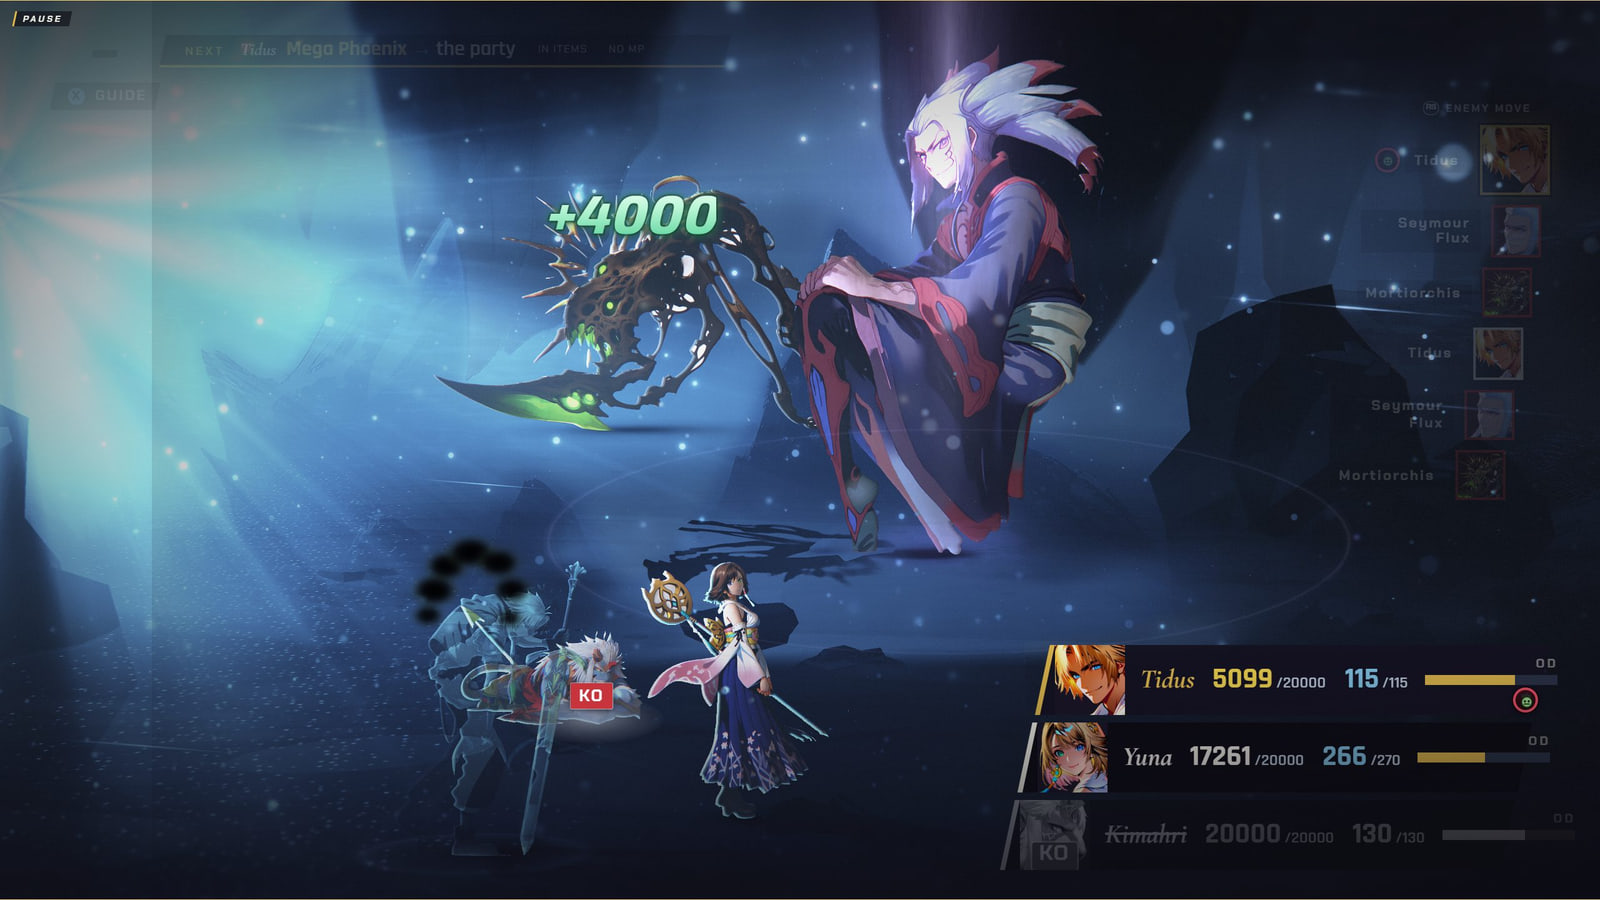
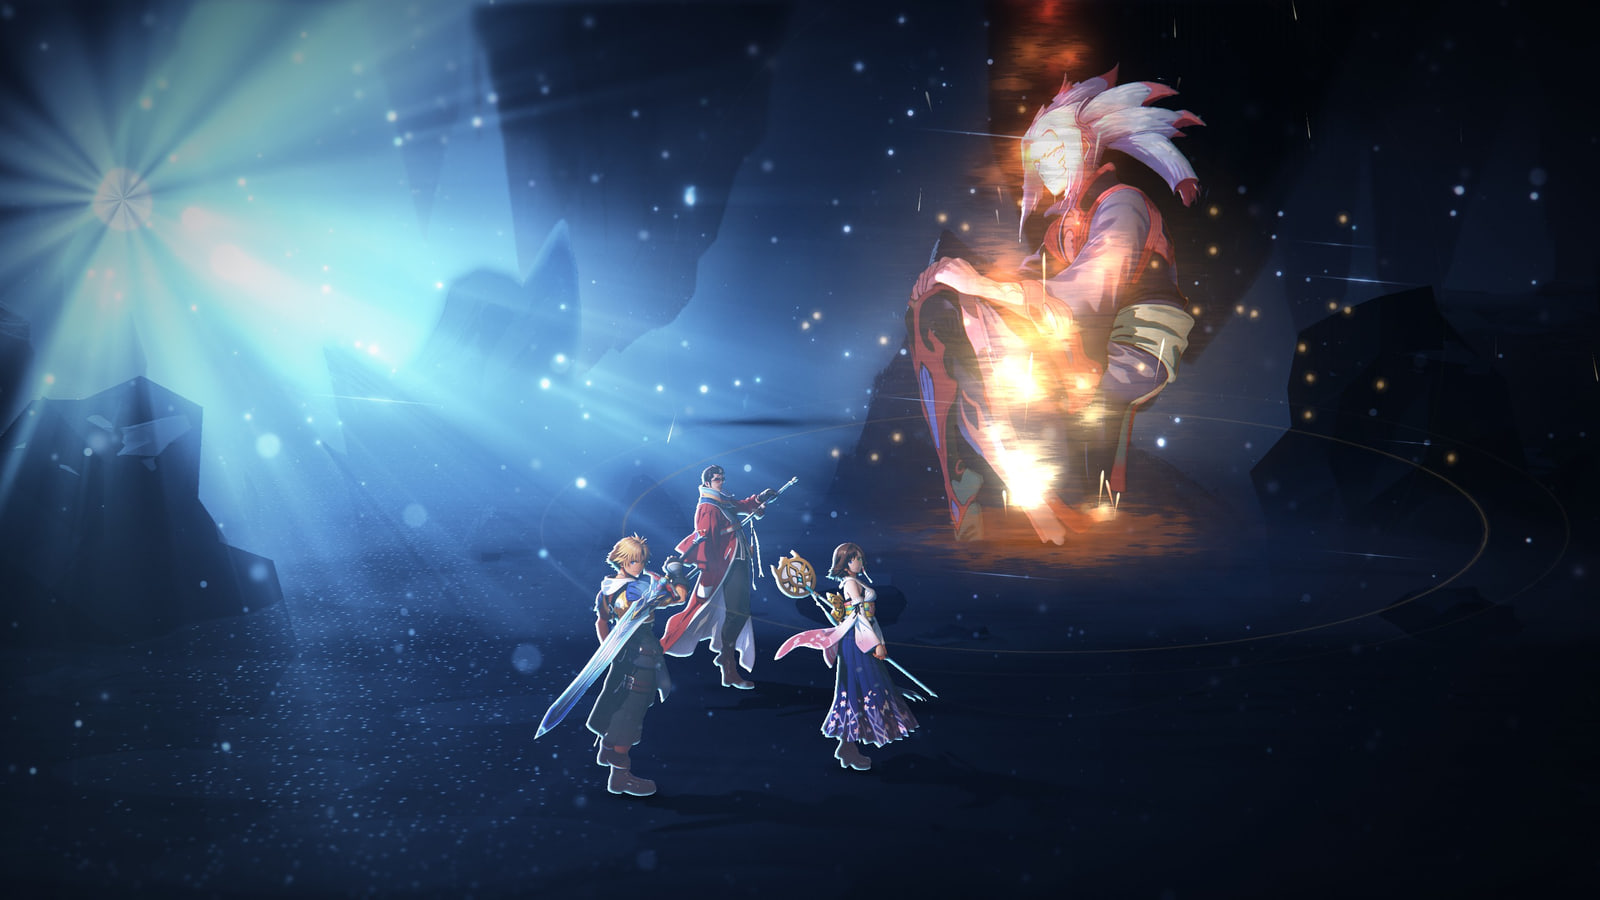
Booth screens, review round 1: the press wall's frames retaken clean (the game's own stats, the interface hidden; tools/press-capture.mjs), the press page one column under 1000 px, a pad press wakes the attract card on the frame it happens, the end card shows the whole painting at 4:3 to 3:2, portra

diff --git a/public/press/index.html b/public/press/index.html
@@ -121,16 +121,25 @@ main { padding-bottom: 4.5rem; }
 @keyframes rise { from { opacity: 0; transform: translateY(0.8rem); } to { opacity: 1; transform: none; } }
 @media (prefers-reduced-motion: reduce) { .fr { animation: none; } .links a { transition: none; } }
 
-/* ---- a phone, or any narrow window: one column, the links first, then the frames */
-@media (max-width: 760px) {
+/* ---- a tablet, a phone, or any window under 1000 px: one column, the links first, then the frames. The two-column dossier needs about 1000 px: its left column is a fixed 35.7rem, so a narrower window would leave the frame wall a sliver (it was 96 px at 768, 148 px at 820). */
+@media (max-width: 1000px) {
   html { font-size: 16px; }
-  .nav { height: 3.4rem; padding: 0 1rem; }
-  .nav .lab { display: none; }
-  .grid { display: block; padding: 1.6rem 1rem 0; }
+  .nav { height: 3.4rem; padding: 0 1.5rem; }
+  .grid { display: block; padding: 1.6rem 1.5rem 0; }
   .title { font-size: 3.5rem; }
   .tagline { font-size: 1.6rem; }
   .links a { padding: 0.9rem 1rem; }
-  .wall { margin-top: 1.6rem; grid-template-columns: 1fr; }
+  .wall { margin-top: 1.6rem; }
+  .sec { padding: 3rem 1.5rem 0; }
+  .shots { grid-template-columns: repeat(2, 1fr); }
+  dl.sheet { grid-template-columns: 11rem 1fr; }
+}
+/* ---- a phone: the frames and the facts in one column too */
+@media (max-width: 600px) {
+  .nav { padding: 0 1rem; }
+  .nav .lab { display: none; }
+  .grid { padding: 1.6rem 1rem 0; }
+  .wall { grid-template-columns: 1fr; }
   .facts { grid-template-columns: 1fr; }
   .sec { padding: 3rem 1rem 0; }
   .shots { grid-template-columns: 1fr; }
@@ -166,8 +175,8 @@ main { padding-bottom: 4.5rem; }
     </section>
 
     <section class="wall" aria-label="Frames from the game">
-      <figure class="fr big"><img src="frames/ffx-seymour-hit.jpg" width="1600" height="900" alt="Final Fantasy X: a hit lands on Seymour Flux on Mt. Gagazet, Tidus and Yuna below, the enemy move list at the side" fetchpriority="high"><figcaption>Final Fantasy X &middot; Seymour Flux</figcaption></figure>
-      <figure class="fr x2"><img src="frames/ffx2-bahamut.jpg" width="1600" height="900" alt="Final Fantasy X-2: Paine strikes Bahamut in Bevelle while Yuna casts Cure"><figcaption>X-2 &middot; Bahamut</figcaption></figure>
+      <figure class="fr big"><img src="frames/ffx-seymour-hit.jpg" width="1600" height="900" alt="Final Fantasy X: a lance strike lands on Seymour Flux in a flash of light, Yuna standing by" fetchpriority="high"><figcaption>Final Fantasy X &middot; Seymour Flux</figcaption></figure>
+      <figure class="fr x2"><img src="frames/ffx2-bahamut.jpg" width="1600" height="900" alt="Final Fantasy X-2: a bright slash crosses Bahamut while the three Gullwings hold their line"><figcaption>X-2 &middot; Bahamut</figcaption></figure>
       <figure class="fr art"><img src="frames/keyart-farplane.jpg" width="1344" height="768" alt="Key art: the Gullwings stand in a field of flowers at Farplane Field, the crystal spire far off"><figcaption>Key art &middot; Farplane</figcaption></figure>
       <div class="facts">
         <div><b>Plays in</b>a browser, free; keyboard or gamepad</div>
@@ -180,16 +189,16 @@ main { padding-bottom: 4.5rem; }
   <section class="sec" id="screens" aria-labelledby="h-screens">
     <h2 id="h-screens">Screenshots and key art</h2>
     <div class="shots">
-      <a href="frames/ffx-seymour-flux.jpg"><img src="frames/ffx-seymour-flux.jpg" width="1600" height="900" loading="lazy" alt="Final Fantasy X: Seymour Flux on Mt. Gagazet, a number rising by the party"><span>X &middot; Seymour Flux</span></a>
-      <a href="frames/ffx-cast.jpg"><img src="frames/ffx-cast.jpg" width="1600" height="900" loading="lazy" alt="Final Fantasy X: Tidus and Yuna in a burst of light"><span>X &middot; Tidus and Yuna</span></a>
-      <a href="frames/ffx-seymour-hit.jpg"><img src="frames/ffx-seymour-hit.jpg" width="1600" height="900" loading="lazy" alt="Final Fantasy X: a hit on Seymour Flux, the enemy move list at the side"><span>X &middot; A hit lands</span></a>
+      <a href="frames/ffx-seymour-flux.jpg"><img src="frames/ffx-seymour-flux.jpg" width="1600" height="900" loading="lazy" alt="Final Fantasy X: flames rise around Seymour Flux while the party watches"><span>X &middot; Flames on Seymour</span></a>
+      <a href="frames/ffx-cast.jpg"><img src="frames/ffx-cast.jpg" width="1600" height="900" loading="lazy" alt="Final Fantasy X: Tidus and Yuna stand in a burst of light"><span>X &middot; The party</span></a>
+      <a href="frames/ffx-seymour-hit.jpg"><img src="frames/ffx-seymour-hit.jpg" width="1600" height="900" loading="lazy" alt="Final Fantasy X: a lance strike on Seymour Flux"><span>X &middot; A hit lands</span></a>
       <a class="art" href="frames/keyart-echo.jpg"><img src="frames/keyart-echo.jpg" width="1600" height="887" loading="lazy" alt="Key art: Yuna kneeling in still water at night, the crystal city far off"><span>Key art &middot; The Echo</span></a>
-      <a class="x2" href="frames/ffx2-bahamut.jpg"><img src="frames/ffx2-bahamut.jpg" width="1600" height="900" loading="lazy" alt="Final Fantasy X-2: Bahamut in the Bevelle arena, the command menu on the right"><span>X-2 &middot; Bahamut</span></a>
-      <a class="x2" href="frames/ffx2-cure.jpg"><img src="frames/ffx2-cure.jpg" width="1600" height="900" loading="lazy" alt="Final Fantasy X-2: Yuna's Cure lights the party"><span>X-2 &middot; Cure</span></a>
-      <a class="x2" href="frames/ffx2-mega-flare.jpg"><img src="frames/ffx2-mega-flare.jpg" width="1600" height="900" loading="lazy" alt="Final Fantasy X-2: Bahamut gathers Mega Flare"><span>X-2 &middot; Mega Flare</span></a>
+      <a class="x2" href="frames/ffx2-bahamut.jpg"><img src="frames/ffx2-bahamut.jpg" width="1600" height="900" loading="lazy" alt="Final Fantasy X-2: a bright slash across Bahamut in the Bevelle arena"><span>X-2 &middot; Bahamut</span></a>
+      <a class="x2" href="frames/ffx2-cure.jpg"><img src="frames/ffx2-cure.jpg" width="1600" height="900" loading="lazy" alt="Final Fantasy X-2: Cure lights the party, Bahamut waiting beyond"><span>X-2 &middot; Cure</span></a>
+      <a class="x2" href="frames/ffx2-darkness.jpg"><img src="frames/ffx2-darkness.jpg" width="1600" height="900" loading="lazy" alt="Final Fantasy X-2: a dark crescent cuts across Bahamut, the Gullwings below"><span>X-2 &middot; Darkness</span></a>
       <a class="art" href="frames/keyart-farplane.jpg"><img src="frames/keyart-farplane.jpg" width="1344" height="768" loading="lazy" alt="Key art: the Gullwings at Farplane Field"><span>Key art &middot; Farplane</span></a>
     </div>
-    <p class="note">Every picture is a capture of the game itself, or its own painted key art. They are web size; the game draws them larger. The frames show a build made for a live demo and may differ in small ways from the one online.</p>
+    <p class="note">Every picture is a capture of the game itself with the interface hidden, or its own painted key art. They are web size; the game draws them larger. The frames show a build made for a live demo and may differ in small ways from the one online.</p>
   </section>
 
   <section class="sec" id="facts" aria-labelledby="h-facts">

diff --git a/tests/unit/booth-press-page.test.ts b/tests/unit/booth-press-page.test.ts
@@ -87,6 +87,23 @@ describe('the press page: the frames', () => {
     expect(manifest.filter((m) => m.game === 'ffx2').length).toBeGreaterThanOrEqual(2);
   });
 
+  it('are clean captures of the game as it plays: no interface, no scripted run, no test numbers (review finding M1)', () => {
+    // the picked mockup's wall is "three clean frames" (no interface); the first build used HUD-on frames from scripted runs with the party's HP raised (Yuna 30000 / 30000, rows colliding)
+    const config = JSON.parse(readFileSync(resolve('tools/press-frames.json'), 'utf8')) as Array<{ name: string; src?: string; art?: string; clean?: string; game: string | null; note: string }>;
+    const games = config.filter((c) => c.game !== null);
+    expect(games.length).toBeGreaterThanOrEqual(6);
+    for (const c of games) {
+      expect(c.note, c.name).toMatch(/press-capture/); // made by tools/press-capture.mjs: the interface layer hidden, the game's own stats
+      expect(c.note, c.name).toMatch(/no interface/);
+      expect(c.src ?? '', c.name).not.toMatch(/ch[14]-script|ch[14]-glass|evidence/); // not a camera-lane scripted run, not an evidence frame with the HUD on
+      expect(c.clean, c.name).toBeUndefined(); // no playtest switchboard label to take out: the captures are made without ?switchboard=1
+    }
+    const capture = readFileSync(resolve('tools/press-capture.mjs'), 'utf8');
+    expect(capture).toContain('#ui { visibility: hidden !important; }');
+    expect(capture).toContain("arg('query', 'demo=1&pack=demo')"); // no ?switchboard=1: no key-list label in the corner of every picture
+    expect(capture).not.toMatch(/maxHp|battleState|.hps*=/); // the tool plays the fight by the game's own strategy and never edits a stat
+  });
+
   it('give every picture a description and a size', () => {
     for (const img of markup.match(/<img [^>]*>/g) ?? []) {
       expect(img).toMatch(/alt="[^"]{12,}"/);
@@ -150,8 +167,21 @@ describe('the press page: the type, the motion and the phone', () => {
     expect(style).toMatch(/@media \(prefers-reduced-motion: reduce\)[^}]*animation: none/);
   });
 
-  it('is one column at phone width, and its text is 16 px there', () => {
-    expect(style).toMatch(/@media \(max-width: 760px\)[\s\S]*?html \{ font-size: 16px; \}/);
-    expect(style).toMatch(/@media \(max-width: 760px\)[\s\S]*?\.grid \{ display: block;/);
+  it('is one column under 1000 px (a tablet, a phone), and its text is 16 px there', () => {
+    expect(style).toMatch(/@media \(max-width: 1000px\)[\s\S]*?html \{ font-size: 16px; \}/);
+    expect(style).toMatch(/@media \(max-width: 1000px\)[\s\S]*?\.grid \{ display: block;/);
+  });
+
+  it('never leaves the two-column dossier narrower than its left column needs: the one-column breakpoint is not under 1000 px', () => {
+    // the left column is 35.7rem (500 px at the 14 px root) and the gaps and margins take 172 px more: a window under about 1000 px would leave the frame wall a sliver (96 px at 768, 148 px at 820; found in review)
+    const bps = [...style.matchAll(/@media \(max-width: (\d+)px\) \{\s*html \{ font-size: 16px; \}/g)].map((m) => Number(m[1]));
+    expect(bps.length).toBeGreaterThan(0);
+    expect(Math.max(...bps)).toBeGreaterThanOrEqual(1000);
+  });
+
+  it('keeps the wall two frames wide on a tablet and one on a phone (600 px)', () => {
+    expect(style).toMatch(/@media \(max-width: 600px\)[\s\S]*?\.wall \{ grid-template-columns: 1fr; \}/);
+    const tablet = style.match(/@media \(max-width: 1000px\) \{([\s\S]*?)\n\}/)?.[1] ?? '';
+    expect(tablet).not.toMatch(/\.wall \{[^}]*grid-template-columns/);
   });
 });

diff --git a/tests/unit/booth-attract.test.ts b/tests/unit/booth-attract.test.ts
@@ -97,6 +97,21 @@ describe('the attract card: what wakes it', () => {
     await stick.done;
     expect(stick.up).toBe(false);
   });
+
+  it('wakes on the frame a pad button goes down, however short the tap: the title looks at the pads each frame, not only on the 50 ms timer', async () => {
+    let pads: Array<{ buttons: Array<{ pressed: boolean }>; axes: number[] } | null> = [{ buttons: [{ pressed: false }], axes: [0, 0] }];
+    const card = new AttractCard(parent, window, () => pads as never);
+    card.show();
+    card.pollPads();
+    expect(card.up).toBe(true); // nobody there
+    pads = [{ buttons: [{ pressed: true }], axes: [0, 0] }];
+    card.pollPads(); // the frame's look, no timer has run
+    await card.done;
+    expect(card.up).toBe(false);
+    expect(card.holding()).toBe(true);
+    card.pollPads(); // after the wake it does nothing more
+    expect(card.up).toBe(false);
+  });
 });
 
 describe('the attract card: the press that wakes it is its own', () => {
@@ -206,6 +221,25 @@ describe('the title\'s 60 s idle count', () => {
     title.update(false);
     expect(cardEl()).not.toBeNull(); // a minute after the press, the next one
     title.dispose();
+  });
+
+  it('wakes the card from the title\'s own frame when a pad button goes down (the frame loop, not the 50 ms timer)', async () => {
+    setDemoMode(true);
+    setBoothMode('new');
+    let pads: Array<{ buttons: Array<{ pressed: boolean }>; axes: number[] } | null> = [];
+    Object.defineProperty(navigator, 'getGamepads', { configurable: true, value: () => pads });
+    const title = enterDemoTitle(appOf())!;
+    now += ATTRACT_AFTER_MS;
+    title.update(false);
+    expect(cardEl()).not.toBeNull();
+    pads = [{ buttons: [{ pressed: true }], axes: [0, 0] }];
+    title.update(false); // one frame later, before any timer has run
+    expect(cardEl()!.classList.contains('booth-card--out')).toBe(true); // already on its way out: the frame woke it
+    expect(title.holding()).toBe(true);
+    await vi.advanceTimersByTimeAsync(CARD_OUT_MS + 5);
+    expect(cardEl()).toBeNull();
+    title.dispose();
+    delete (navigator as unknown as { getGamepads?: unknown }).getGamepads;
   });
 
   it('starts the reel, not the card, with the booth screens off or ?attract=reel in the address', async () => {

diff --git a/src/app/demo/boothCards.css b/src/app/demo/boothCards.css
@@ -279,11 +279,28 @@
   height: calc(112 * var(--bk));
 }
 
-/* ------------------------------------------------------------------ a portrait window (a phone or a tablet opening ?card=): the words stack under the picture instead of beside it */
+/* ------------------------------------------------------------------ a squarer window (4:3, 5:4, up to 3:2): the whole painting from the top, the words in the corners below it
+ * At 16:10 and wider the painting fills the window (cropped at the sides) and the painted lettering sits clear of the words. Squarer than about 3:2 the crop is so deep that the lettering is wider than the gap
+ * between the two word blocks (they sat on "ECHOES" and "SPIRA" at 4:3 and 5:4); with the whole painting shown, the lettering is the middle 39 percent of the width and the blocks (each under 27 percent) are clear of it.
+ * Measured on the painting: the lettering is x 0.306 to 0.694 and y 0.848 to 0.912 of it. */
+
+@media (min-aspect-ratio: 101 / 100) and (max-aspect-ratio: 31 / 20) {
+  .booth-end__img {
+    object-fit: contain;
+    object-position: 50% 0%;
+  }
+}
+
+/* ------------------------------------------------------------------ a portrait window (a phone or a tablet opening ?card=): the words stack under the picture instead of beside it
+ * The unit is the window's width over a phone's 390 (so the smallest word is 16 px on a phone, 19 px on a tablet), and the whole painting is shown across the top, not a narrow cut of it. */
 
 @media (max-aspect-ratio: 1 / 1) {
+  .booth-card {
+    --bk: max(0.5px, min(100vw / 390, 100vh / 844));
+  }
   .booth-end__img {
-    object-position: 50% 30%;
+    object-fit: contain;
+    object-position: 50% 8vh;
   }
   .booth-end__left {
     left: 5vw;
@@ -297,6 +314,25 @@
     width: auto;
     bottom: 6vh;
     align-items: center;
+    text-align: center;
+  }
+  .booth-attract__art {
+    left: 0;
+    width: 100%;
+    top: 4%;
+    height: 56%;
+  }
+  .booth-attract__prompt {
+    top: 66%;
+    font-size: calc(36 * var(--bk));
+  }
+  .booth-attract__press {
+    top: 78%;
+  }
+  .booth-attract__fan {
+    left: 0;
+    right: 0;
+    bottom: calc(20 * var(--bk));
     text-align: center;
   }
   .booth-attract__qr {

diff --git a/tests/unit/booth-cards.test.ts b/tests/unit/booth-cards.test.ts
@@ -139,4 +139,21 @@ describe('the style sheet', () => {
     expect(css).toContain('--bk: max(0.5px, min(100vw / 1440, 100vh / 810))');
     expect(css).toContain('#050402');
   });
+
+  it('shows the whole painting in a squarer window (4:3, 5:4, up to 3:2), so the painted lettering stays between the word blocks', () => {
+    // review finding m3: cropped to fill a 4:3 or 5:4 window, "ECHOES OF SPIRA" (x 0.306 to 0.694 of the painting) ran under the words on both sides
+    const squarer = css.match(/@media \(min-aspect-ratio: 101 \/ 100\) and \(max-aspect-ratio: 31 \/ 20\) \{([\s\S]*?)\n\}/)?.[1] ?? '';
+    expect(squarer).toMatch(/\.booth-end__img \{[^}]*object-fit: contain;[^}]*object-position: 50% 0%/);
+    // with the whole painting, the lettering is the middle 39 percent of the width and each word block (width 330 units of 1440) stays under 27 percent of it
+    expect((54 + 330) / 1440).toBeLessThan(0.306);
+    expect(1 - (54 + 265) / 1440).toBeGreaterThan(0.694);
+  });
+
+  it('sizes a portrait window by a phone\'s width (390), so no word is under 16 px on a phone, and shows the whole painting', () => {
+    // review finding m4: at the landscape unit a phone got 8 px type and a cropped wordmark
+    const portrait = css.match(/@media \(max-aspect-ratio: 1 \/ 1\) \{([\s\S]*?)\n\}/)?.[1] ?? '';
+    expect(portrait).toContain('--bk: max(0.5px, min(100vw / 390, 100vh / 844))');
+    expect(portrait).toMatch(/\.booth-end__img \{[^}]*object-fit: contain/);
+    expect(16 * (390 / 390)).toBeGreaterThanOrEqual(16);
+  });
 });

diff --git a/src/app/demo/boothAttract.ts b/src/app/demo/boothAttract.ts
@@ -75,6 +75,14 @@ export class AttractCard {
     });
   }
 
+  /**
+   * Look at the pads now. The title calls this on every frame while the card is up, so a pad press (even a short tap) wakes the card on the frame it happens; the {@link PAD_POLL_MS} timer below is the backstop for a
+   * page whose frames are not running (a hidden tab).
+   */
+  pollPads(): void {
+    if (this.up && padActive(this.pads())) this.wake();
+  }
+
   /** Something happened: take the card away, and take the rest of that press. */
   wake(): void {
     if (this.over) return;

diff --git a/src/app/demo/demoTitle.ts b/src/app/demo/demoTitle.ts
@@ -39,7 +39,10 @@ export function enterDemoTitle(app: App, afterMs = ATTRACT_AFTER_MS): DemoTitle 
   let card: AttractCard | null = null;
   return {
     update(busy) {
-      if (started) return;
+      if (started) {
+        card?.pollPads(); // the card is up: a pad press wakes it on this very frame, however short the tap (the card's own timer is the backstop)
+        return;
+      }
       if (padActive(navigator.getGamepads?.() ?? null)) clock.touch(now());
       if (busy) {
         clock.touch(now());
